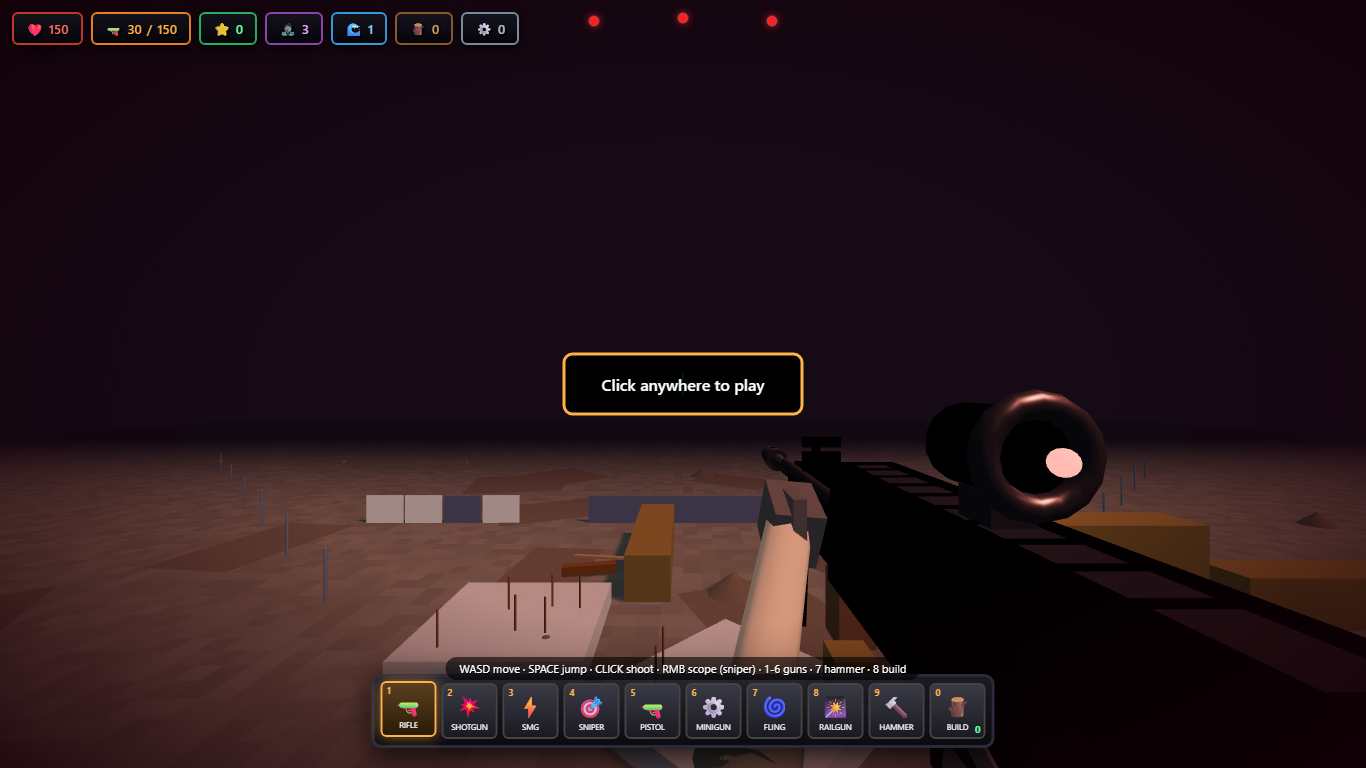
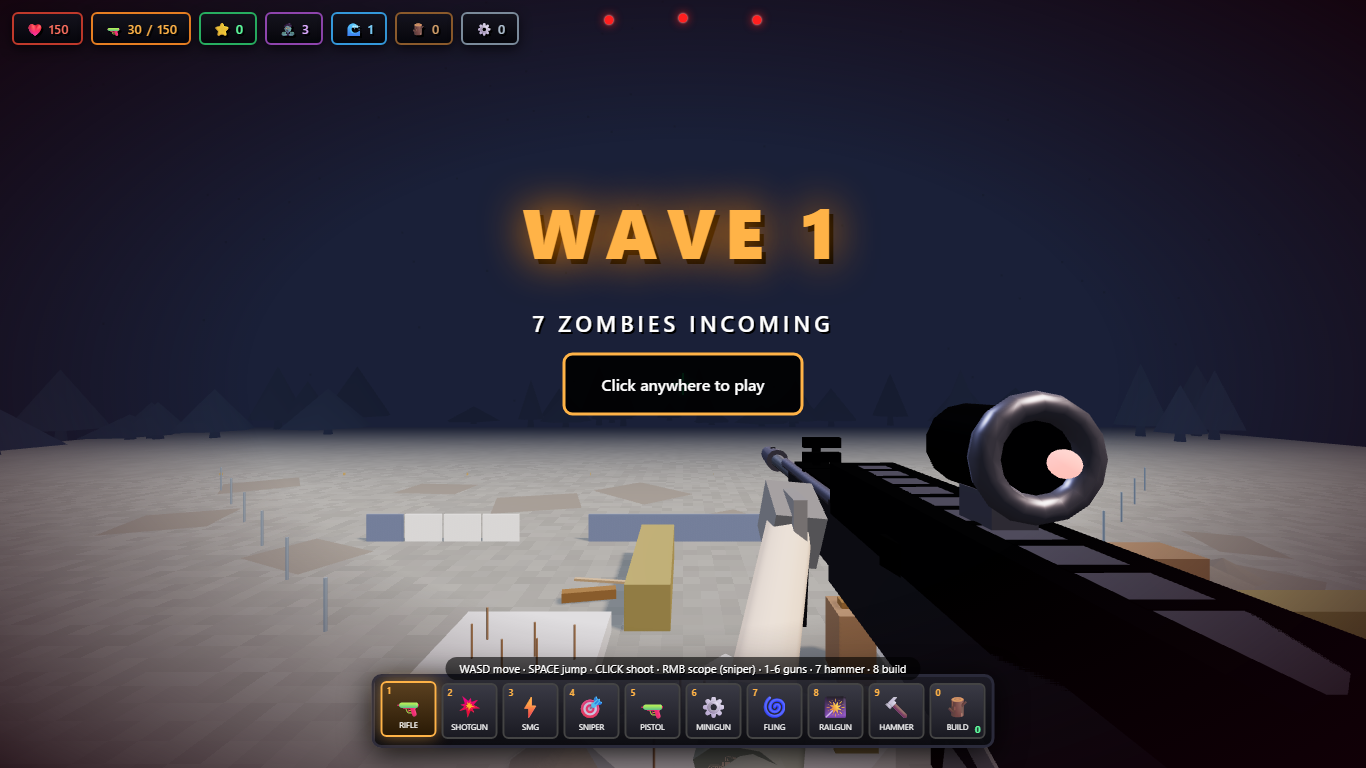
Atmosphere pass: brighter night sky with stars + moon + far tree-line, softer fog, warmer key + blue fill light; trim noisy floor scatter on Arena and Ruins

diff --git a/index.html b/index.html
@@ -445,11 +445,11 @@ document.body.appendChild(renderer.domElement);
 
 // ============ SCENE ============
 const scene = new THREE.Scene();
-const _bgBase = new THREE.Color(0x160a16);
-const _fogBase = new THREE.Color(0x110812);
+const _bgBase = new THREE.Color(0x1a2038);
+const _fogBase = new THREE.Color(0x161c30);
 const _ltCol = new THREE.Color();
 scene.background = _bgBase.clone();
-scene.fog = new THREE.Fog(_fogBase.clone(), 30, 118);
+scene.fog = new THREE.Fog(_fogBase.clone(), 55, 175);
 
 const camera = new THREE.PerspectiveCamera(75, window.innerWidth/window.innerHeight, 0.1, 500);
 camera.position.set(0, 1.7, 10);
@@ -472,9 +472,9 @@ fitGameWindow();
 window.addEventListener('resize', fitGameWindow);
 
 // LIGHTS
-scene.add(new THREE.AmbientLight(0xffffff, 0.22));
-scene.add(new THREE.HemisphereLight(0x1a1430, 0x0a060e, 0.3));
-const sun = new THREE.DirectionalLight(0xff5533, 0.65);
+scene.add(new THREE.AmbientLight(0xfff0e0, 0.5));
+scene.add(new THREE.HemisphereLight(0x5a7bb0, 0x14121c, 0.75));
+const sun = new THREE.DirectionalLight(0xffc9a0, 1.15);
 sun.position.set(30, 50, 20);
 sun.castShadow = true;
 sun.shadow.mapSize.width = 1024;
@@ -485,6 +485,51 @@ sun.shadow.camera.top=SR; sun.shadow.camera.bottom=-SR;
 sun.shadow.camera.near=1; sun.shadow.camera.far=150;
 sun.shadow.bias = -0.0005;
 scene.add(sun);
+const moon = new THREE.DirectionalLight(0x8fa7ff, 0.5);
+moon.position.set(-40, 60, -35);
+scene.add(moon);
+
+// ============ NIGHT SKY: stars, moon disc, far tree-line ============
+const skyObj = new THREE.Group();
+(function(){
+  const starGeo = new THREE.BufferGeometry();
+  const N = 700, pos = new Float32Array(N*3), siz = new Float32Array(N);
+  for (let i=0;i<N;i++){
+    const a = Math.random()*Math.PI*2, p = (0.25 + Math.random()*0.72)*Math.PI;
+    const r = 420;
+    pos[i*3]   = Math.sin(p)*Math.cos(a)*r;
+    pos[i*3+1] = Math.cos(p)*r;
+    pos[i*3+2] = Math.sin(p)*Math.sin(a)*r;
+    siz[i] = 0.6 + Math.random()*1.4;
+  }
+  starGeo.setAttribute('position', new THREE.BufferAttribute(pos, 3));
+  starGeo.setAttribute('size', new THREE.BufferAttribute(siz, 1));
+  const starMat = new THREE.PointsMaterial({ color:0xffffff, size:2.2, transparent:true, opacity:0.85, sizeAttenuation:false, depthWrite:false });
+  const stars = new THREE.Points(starGeo, starMat);
+  scene.add(stars);
+  // moon disc + halo
+  const moonDir = new THREE.Vector3(-0.42, 0.5, -0.42).normalize();
+  const mpos = moonDir.clone().multiplyScalar(430);
+  const moonMesh = new THREE.Mesh(new THREE.CircleGeometry(26, 32),
+    new THREE.MeshBasicMaterial({ color:0xd8e2ff }));
+  moonMesh.position.copy(mpos); moonMesh.lookAt(0,0,0); scene.add(moonMesh);
+  const halo = new THREE.Mesh(new THREE.CircleGeometry(42, 32),
+    new THREE.MeshBasicMaterial({ color:0x9fb4ff, transparent:true, opacity:0.25, depthWrite:false }));
+  halo.position.copy(mpos); halo.lookAt(0,0,0); scene.add(halo);
+  // distant tree line (pure silhouette — fog will haze it)
+  const silMat = new THREE.MeshBasicMaterial({ color:0x0d1220 });
+  for (let i=0;i<110;i++){
+    const a = (i/110)*Math.PI*2 + (Math.random()-0.5)*0.3;
+    const r = 155 + Math.random()*40;
+    const h = 6 + Math.random()*16;
+    const trunk = new THREE.Mesh(new THREE.CylinderGeometry(0.35, 1.2, h*0.5, 5), silMat);
+    trunk.position.set(Math.sin(a)*r, h*0.22, Math.cos(a)*r);
+    const crown = new THREE.Mesh(new THREE.ConeGeometry(4 + Math.random()*7, h*0.8, 6), silMat);
+    crown.position.set(Math.sin(a)*r, h*0.55, Math.cos(a)*r);
+    crown.rotation.y = Math.random()*Math.PI*2;
+    scene.add(trunk); scene.add(crown);
+  }
+})();
 
 // ============ TEXTURES ============
 function noiseTex(color, size=64, variation=25) {
@@ -3032,17 +3077,19 @@ function buildArenaMap(){
   const flameMat  = new THREE.MeshStandardMaterial({ color:0xff8833, emissive:0xff6622, emissiveIntensity:2.2 });
   const bannerMat = new THREE.MeshStandardMaterial({ color:0x8a2424, roughness:0.8, side:THREE.DoubleSide });
 
-  // Worn arena floor — dirt scuffs + blood stains + center ring
-  for (let i=0;i<40;i++){
-    const a = Math.random()*Math.PI*2, r = 10 + Math.random()*33;
-    const d = new THREE.Mesh(new THREE.PlaneGeometry(4+Math.random()*8, 4+Math.random()*8), dirtMat);
+  // Worn arena floor — soft scuffs + faint blood + center ring
+  const dustMat = new THREE.MeshStandardMaterial({ map:stoneTex, color:0x5e5648, transparent:true, opacity:0.35, roughness:1 });
+  for (let i=0;i<12;i++){
+    const a = Math.random()*Math.PI*2, r = 12 + Math.random()*30;
+    const d = new THREE.Mesh(new THREE.PlaneGeometry(7+Math.random()*10, 7+Math.random()*10), dustMat);
     d.rotation.x = -Math.PI/2; d.rotation.z = Math.random()*Math.PI;
-    d.position.set(Math.sin(a)*r + (Math.random()-0.5)*6, 0.02, Math.cos(a)*r + (Math.random()-0.5)*6);
+    d.position.set(Math.sin(a)*r, 0.02, Math.cos(a)*r);
     root.add(d);
   }
-  for (let i=0;i<18;i++){
-    const a = Math.random()*Math.PI*2, r = 8 + Math.random()*30;
-    const b = new THREE.Mesh(new THREE.PlaneGeometry(2+Math.random()*4, 2+Math.random()*4), bloodMat);
+  const bloodMat2 = new THREE.MeshStandardMaterial({ color:0x3a0e0c, transparent:true, opacity:0.3, roughness:1, depthWrite:false });
+  for (let i=0;i<6;i++){
+    const a = Math.random()*Math.PI*2, r = 10 + Math.random()*26;
+    const b = new THREE.Mesh(new THREE.PlaneGeometry(2.6+Math.random()*3, 2.6+Math.random()*3), bloodMat2);
     b.rotation.x = -Math.PI/2; b.rotation.z = Math.random()*Math.PI;
     b.position.set(Math.sin(a)*r, 0.03, Math.cos(a)*r);
     root.add(b);
@@ -3202,22 +3249,22 @@ function buildRuinsMap(){
   const vineMat   = new THREE.MeshStandardMaterial({ color:0x2f5520, roughness:1 });
   const boneMat   = new THREE.MeshStandardMaterial({ color:0xd8d0c0, roughness:0.6, flatShading:true });
 
-  // Overgrown meadow — dirt clumps, tufts, ferns
-  for (let i=0;i<60;i++){
-    const a = Math.random()*Math.PI*2, r = 6 + Math.random()*90;
-    const d = new THREE.Mesh(new THREE.PlaneGeometry(3+Math.random()*7, 3+Math.random()*7), dirtMat);
+  // Overgrown meadow — soft dirt clumps, scattered ferns
+  for (let i=0;i<24;i++){
+    const a = Math.random()*Math.PI*2, r = 8 + Math.random()*88;
+    const d = new THREE.Mesh(new THREE.PlaneGeometry(4+Math.random()*7, 4+Math.random()*7), dirtMat);
     d.rotation.x = -Math.PI/2; d.rotation.z = Math.random()*Math.PI;
     d.position.set(Math.sin(a)*r + (Math.random()-0.5)*4, 0.02, Math.cos(a)*r + (Math.random()-0.5)*4);
     root.add(d);
   }
   const fernMat = new THREE.MeshStandardMaterial({ color:0x2f5a22, roughness:1, transparent:true, opacity:0.9, side:THREE.DoubleSide });
-  for (let i=0;i<80;i++){
-    const a = Math.random()*Math.PI*2, r = 4 + Math.random()*95;
+  for (let i=0;i<28;i++){
+    const a = Math.random()*Math.PI*2, r = 6 + Math.random()*92;
     const fx = Math.sin(a)*r, fz = Math.cos(a)*r;
     const tuft = new THREE.Group();
-    for (let b=0;b<4;b++){
-      const blade = new THREE.Mesh(new THREE.PlaneGeometry(0.16, 0.5+Math.random()*0.6), fernMat);
-      blade.position.set((Math.random()-0.5)*0.3, 0.25, (Math.random()-0.5)*0.3);
+    for (let b=0;b<3;b++){
+      const blade = new THREE.Mesh(new THREE.PlaneGeometry(0.14, 0.4+Math.random()*0.4), fernMat);
+      blade.position.set((Math.random()-0.5)*0.35, 0.2, (Math.random()-0.5)*0.35);
       blade.rotation.y = Math.random()*Math.PI; blade.rotation.x = (Math.random()-0.5)*0.2; tuft.add(blade);
     }
     tuft.position.set(fx, 0, fz); root.add(tuft);
